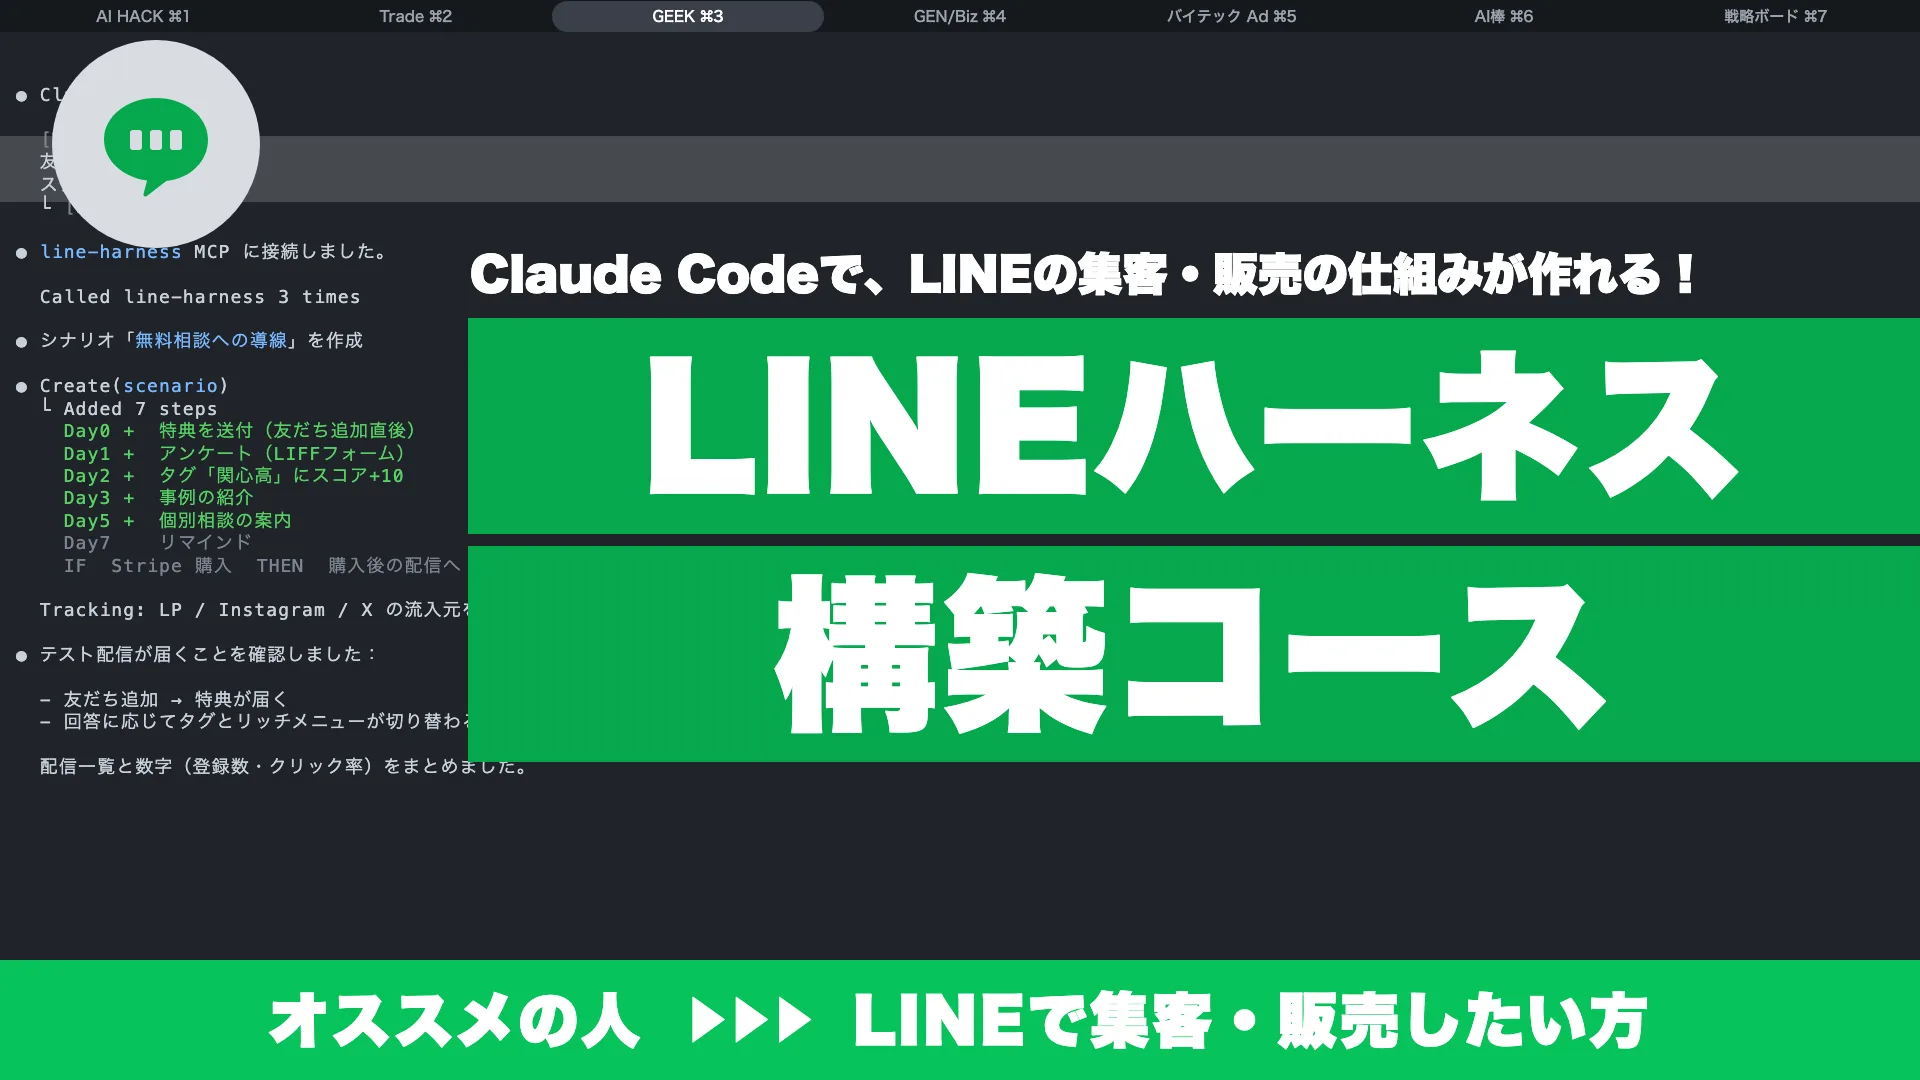
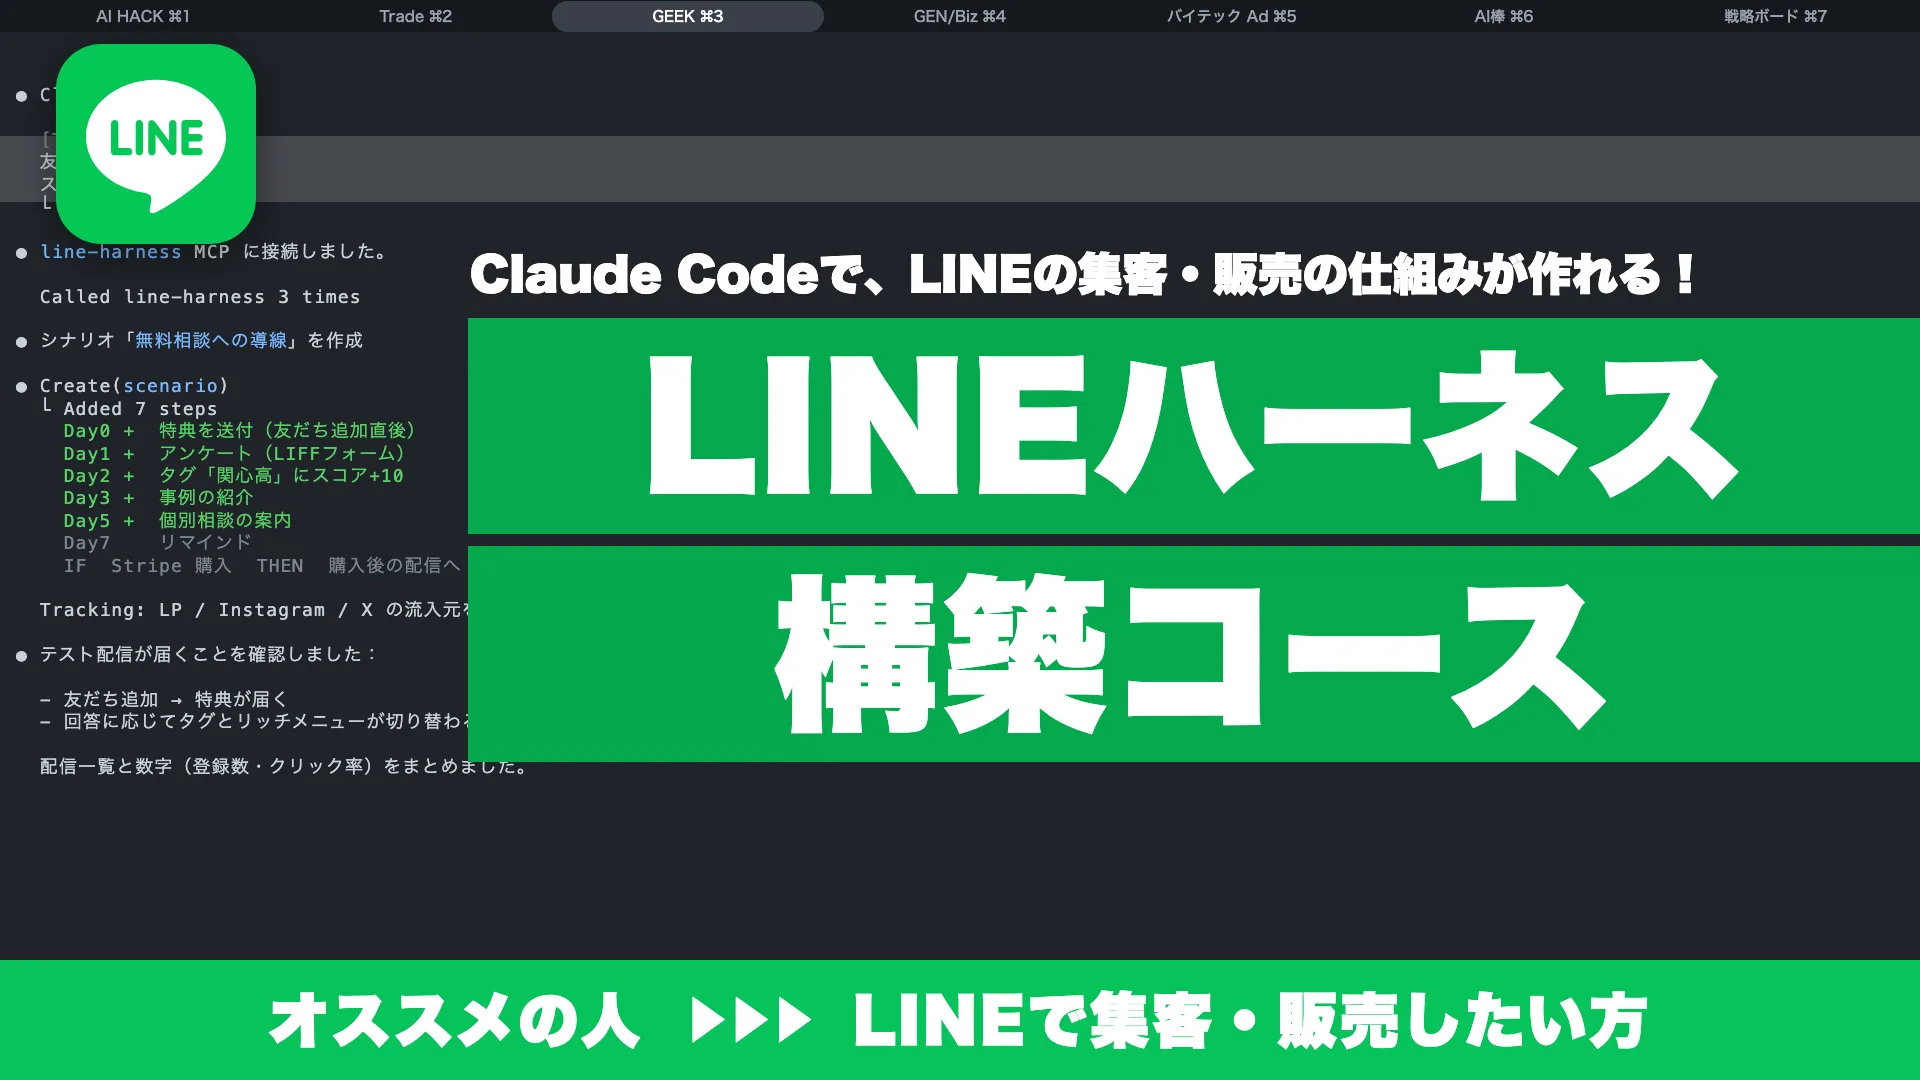
fix(geek): LINEハーネス構築コースのサムネのアイコンをLINE公式アイコンに差し替え

Changed region(s): [[0.0, 0.0306, 0.1562, 0.2444]]

diff --git a/public/geek-static/index.html b/public/geek-static/index.html
@@ -2964,7 +2964,7 @@ height="0" width="0" style="display:none;visibility:hidden"></iframe></noscript>
                 <p class="g2lv-lead">メインコースで身につけた力を、テーマを1つに絞って伸ばすコースです。</p>
                 <ul class="g2lv-list">
                     <li class="g2lv-card">
-                        <img class="g2lv-thumb" src="/geek-static/files/line-harness-course.webp" alt="" width="1920" height="1080" loading="lazy">
+                        <img class="g2lv-thumb" src="/geek-static/files/line-harness-course.webp?v=20261103b" alt="" width="1920" height="1080" loading="lazy">
                         <div class="g2lv-body">
                             <h3 class="g2lv-name"><span class="c-new" data-new-until="2027-01-03">NEW</span>LINEハーネス構築コース</h3>
                             <p class="g2lv-desc">Claude CodeでLINE公式アカウントの配信ツールを動かし、友だち追加から販売までの仕組みを作る</p>
